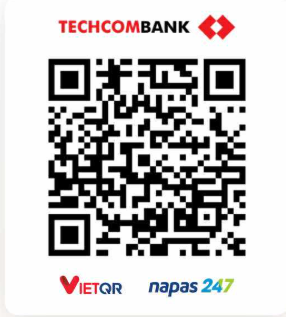
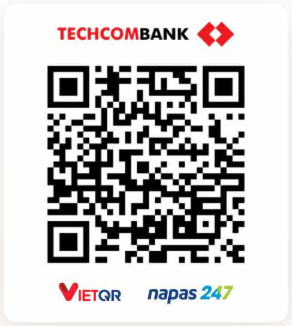
update version 2

diff --git a/index.html b/index.html
@@ -10,19 +10,18 @@
     <meta name="keywords" content="Wedding, Wedding website, Website đám cưới, Tạo website đám cưới miễn phí">
     <meta name="format-detection" content="telephone=no">
     <meta name="application-name" content="iWedding">
-    <meta name="author" content="Biihappy.com">
+    <meta name="author" content="DuongTV">
     <meta property="og:site_name" content="Tạ Dương &amp; Vũ Huế">
     <meta property="og:type" content="website">
     <meta property="og:title" content="Tạ Dương &amp; Vũ Huế Wedding site!">
-    <meta property="og:url" content="https://thanh-hue.iwedding.info">
     <meta property="og:description"
           content="Tạ Dương &amp; Vũ Huế - Our wedding date: 2025-11-02 | Đối với thế giới, bạn có thể là một người, nhưng với một người, bạn là cả thế giới">
     <meta property="og:image"
-          content="https://cdn.biihappy.com/ziiweb/website/68d6c355b582da57f105e202/94e39d0e847b6906e034a93b631876fc.jpeg">
+          content="/images/MQ1A2190%20copy.jpg">
     <meta property="og:image:url"
-          content="https://cdn.biihappy.com/ziiweb/website/68d6c355b582da57f105e202/94e39d0e847b6906e034a93b631876fc.jpeg">
+          content="/images/MQ1A2190%20copy.jpg">
     <meta property="og:image:secure_url"
-          content="https://cdn.biihappy.com/ziiweb/website/68d6c355b582da57f105e202/94e39d0e847b6906e034a93b631876fc.jpeg">
+          content="/images/MQ1A2190%20copy.jpg">
     <link rel="shortcut icon" type="image/x-icon" href="https://iwedding.info/favicon.ico">
     <link href="https://thanh-hue.iwedding.info/templates/template15/css/libs.css?v=202506122" rel="stylesheet">
     <link href="https://thanh-hue.iwedding.info/common/calendar.css?v=202506122" rel="stylesheet">
@@ -300,7 +299,7 @@
 
     <section class="event-section section-padding p-t-0 section-bg-color" id="events">
         <div class="top-area"
-             style="background: url('images/MQ1A3235 copy.jpg') center center/cover no-repeat local;">
+             style="background: url('images/MQ1A3235 copy (2).jpg') center center/cover no-repeat local;">
             <h2>Sự Kiện Cưới</h2>
             <p class="">...tình yêu không phải là nhìn chằm chằm vào nhau, mà là nhìn chằm chằm về cùng một hướng...</p>
         </div>
@@ -317,20 +316,18 @@
                             <p><strong>12:00 02/11/2025</strong></p>
                             <p>
                                 <span> - </span>
-                                Xóm 1, xã Nam Hải, xã Nam Tiền Hải, thành phố Hưng Yên
+                                Xóm 1, thôn Nội Lang Bắc, xã Nam Tiền Hải, tỉnh Hưng Yên
                             </p>
 
                             <div class="calendar-button">
                                 <div class="atcb" style="display:none;">
                                     {
                                     "name":"LỄ CƯỚI NHÀ GÁI (Đám cưới Tạ Dương và Vũ Huế)",
-                                    "description":"Cảm ơn bạn đã dành thời gian tham dự đám cưới của chúng tôi!. Thông
-                                    tin chi tiết xem tại website:<br>[url]https://thanh-hue.iwedding.info[/url]",
-                                    "startDate":"2025-10-11",
-                                    "endDate":"2025-10-11",
-                                    "startTime":"16:00",
-                                    "endTime":"16:00",
-                                    "location":"Xóm 1, xã Nam Hải, xã Nam Tiền Hải, thành phố Hưng Yên",
+                                    "startDate":"2025-11-02",
+                                    "endDate":"2025-11-02",
+                                    "startTime":"09:00",
+                                    "endTime":"14:00",
+                                    "location":"Xóm 7, thôn Tam Bảo, xã Nam Tiền Hải, tỉnh Hưng Yên",
                                     "options":["Apple","Google","iCal","Microsoft365","MicrosoftTeams","Outlook.com","Yahoo"],
                                     "timeZone":"Asia/Ho_Chi_Minh",
                                     "iCalFileName":"Reminder-Event",
@@ -340,7 +337,7 @@
                                     }
                                 </div>
                             </div>
-                            <a class="see-location-btn" href="https://maps.app.goo.gl/HEKNJEw8vP1HuUks9"
+                            <a class="see-location-btn" href="https://maps.app.goo.gl/MCtoBkteeZYvEWCn7"
                                target="_blank">Xem bản đồ</a>
                         </div>
                         <div class="grid section-bg-img">
@@ -352,20 +349,18 @@
                             <p><strong>13:00 02/11/2025</strong></p>
                             <p>
                                 <span> - </span>
-                                Xóm 7, xã Nam Tiền Hải, Thành phố Hưng Yên
+                                Xóm 7, thôn Tam Bảo, xã Nam Tiền Hải, Tỉnh Hưng Yên
                             </p>
 
                             <div class="calendar-button">
                                 <div class="atcb" style="display:none;">
                                     {
                                     "name":"LỄ CƯỚI NHÀ TRAI (Đám cưới Tạ Dương và Vũ Huế)",
-                                    "description":"Cảm ơn bạn đã dành thời gian tham dự đám cưới của chúng tôi!. Thông
-                                    tin chi tiết xem tại website:<br>[url]https://thanh-hue.iwedding.info[/url]",
                                     "startDate":"2025-11-02",
                                     "endDate":"2025-11-02",
                                     "startTime":"09:00",
                                     "endTime":"14:00",
-                                    "location":" Xóm 7, xã Nam Tiền Hải, Thành phố Hưng Yên",
+                                    "location":"Xóm 7, thôn Tam Bảo, xã Nam Tiền Hải, tỉnh Hưng Yên",
                                     "options":["Apple","Google","iCal","Microsoft365","MicrosoftTeams","Outlook.com","Yahoo"],
                                     "timeZone":"Asia/Ho_Chi_Minh",
                                     "iCalFileName":"Reminder-Event",
@@ -375,7 +370,7 @@
                                     }
                                 </div>
                             </div>
-                            <a class="see-location-btn" href="https://maps.app.goo.gl/YSmo1rGjZCpVFPoB7"
+                            <a class="see-location-btn" href="https://maps.app.goo.gl/Fiie9XWgPw5mHKGu5"
                                target="_blank">Xem bản đồ</a>
                         </div>
                     </div>
@@ -491,6 +486,20 @@
                             });
                         </script>
 
+                        <div class="grid grid-item btn-see-more-gallery" data-index="7">
+                            <a href="javascript:void(0)">
+                                <img src="/images/MQ1A3191%20copy.jpg"
+                                     alt class="img img-responsive">
+                            </a>
+                        </div>
+                        <script type="text/javascript">
+                            photoGalleries.push({
+                                src: "/images/MQ1A3191%20copy.jpg",
+                                thumb: "/images/MQ1A3191%20copy.jpg",
+                                subHtml: `<div class="lg-sub-html"><h4></h4></div>`
+                            });
+                        </script>
+
                         <div class="grid grid-item btn-see-more-gallery" data-index="6">
                             <a href="javascript:void(0)">
                                 <img src="/images/MQ1A3444%20copy.jpg"
@@ -529,6 +538,32 @@
                             photoGalleries.push({
                                 src: "/images/MQ1A2677%20copy.jpg",
                                 thumb: "/images/MQ1A2677%20copy.jpg",
+                                subHtml: `<div class="lg-sub-html"><h4></h4></div>`
+                            });
+                        </script>
+                        <div class="grid grid-item btn-see-more-gallery" data-index="8">
+                            <a href="javascript:void(0)">
+                                <img src="/images/MQ1A3363%20copy%201.jpg"
+                                     alt class="img img-responsive">
+                            </a>
+                        </div>
+                        <script type="text/javascript">
+                            photoGalleries.push({
+                                src: "/images/MQ1A3363%20copy%201.jpg",
+                                thumb: "/images/MQ1A3363%20copy%201.jpg",
+                                subHtml: `<div class="lg-sub-html"><h4></h4></div>`
+                            });
+                        </script>
+                        <div class="grid grid-item btn-see-more-gallery" data-index="8">
+                            <a href="javascript:void(0)">
+                                <img src="/images/MQ1A3326%20copy.jpg"
+                                     alt class="img img-responsive">
+                            </a>
+                        </div>
+                        <script type="text/javascript">
+                            photoGalleries.push({
+                                src: "/images/MQ1A3326%20copy.jpg",
+                                thumb: "/images/MQ1A3326%20copy.jpg",
                                 subHtml: `<div class="lg-sub-html"><h4></h4></div>`
                             });
                         </script>
@@ -577,7 +612,7 @@
                     <div class="contact-form">
                         <form id="wish-form" class="form validate-rsvp-form row" method="post">
                             <div class="col col-sm-6">
-                                <input type="text" name="name" class="form-control" placeholder="Nhập họ tên*">
+                                <input id="nickName" type="text" name="name" class="form-control" placeholder="Nhập họ tên*">
                             </div>
                             <div class="col col-sm-6">
                                 <input type="email" name="email" class="form-control" placeholder="Nhập email">
@@ -623,13 +658,13 @@
                                 </div>
                             </div>
                             <div class="col col-sm-12 submit-btn">
-                                <button type="submit" class="theme-btn">Gửi lời chúc</button>
+                                <button type="submit" class="theme-btn" onclick="sendMessage()">Gửi lời chúc</button>
                                 <div id="loader">
                                     <i class="ti-reload"></i>
                                 </div>
                             </div>
                             <div class="col col-md-12 success-error-message">
-                                <div id="success">Thank you</div>
+                                <div id="success">Lời chúc của bạn đã được gửi tới cô dâu và chú rể 👩🍳💖</div>
                             </div>
                         </form>
                     </div>
@@ -638,7 +673,8 @@
                     <div class="wish-box">
                         <div class="wish-box-item">
                             <strong>Minh Anh</strong>
-                            <p>Gửi anh Dương – người luôn hết mình vì công việc và đam mê bóng đá! Chúc anh và chị Huế mãi hạnh phúc, cùng nhau
+                            <p>Gửi anh Dương – người luôn hết mình vì công việc và đam mê bóng đá! Chúc anh và chị Huế
+                                mãi hạnh phúc, cùng nhau
                                 xây dựng tổ ấm tràn ngập tiếng cười và những bữa cơm ngon từ tay chị 💕</p>
                             <script>
                                 dataWishes.push({
@@ -650,7 +686,8 @@
 
                         <div class="wish-box-item bg">
                             <strong>Hải Nam</strong>
-                            <p>Anh Dương luôn là hình mẫu của sự tận tâm và trách nhiệm! Chúc anh và chị Huế trăm năm hạnh phúc, chị mãi xinh đẹp
+                            <p>Anh Dương luôn là hình mẫu của sự tận tâm và trách nhiệm! Chúc anh và chị Huế trăm năm
+                                hạnh phúc, chị mãi xinh đẹp
                                 và nấu ăn ngày càng đỉnh hơn 🍀</p>
                             <script>
                                 dataWishes.push({
@@ -662,7 +699,8 @@
 
                         <div class="wish-box-item">
                             <strong>Thanh Hằng</strong>
-                            <p>Chúc anh Dương và chị Huế mãi là cặp đôi hoàn hảo — anh đam mê công việc và bóng đá, chị dịu dàng đảm đang, bữa cơm
+                            <p>Chúc anh Dương và chị Huế mãi là cặp đôi hoàn hảo — anh đam mê công việc và bóng đá, chị
+                                dịu dàng đảm đang, bữa cơm
                                 nào cũng khiến ai cũng muốn về nhà sớm 💖</p>
                             <script>
                                 dataWishes.push({
@@ -674,7 +712,8 @@
 
                         <div class="wish-box-item bg">
                             <strong>Tuấn Kiệt</strong>
-                            <p>Chúc mừng anh Dương – người đàn ông hết lòng với công việc và sân cỏ. Mong anh và chị Huế cùng nhau tận hưởng từng
+                            <p>Chúc mừng anh Dương – người đàn ông hết lòng với công việc và sân cỏ. Mong anh và chị Huế
+                                cùng nhau tận hưởng từng
                                 khoảnh khắc hạnh phúc giản đơn 💫</p>
                             <script>
                                 dataWishes.push({
@@ -686,7 +725,8 @@
 
                         <div class="wish-box-item">
                             <strong>Ngọc Linh</strong>
-                            <p>Gửi chị Huế xinh đẹp và anh Dương tâm huyết! Hai anh chị chính là minh chứng cho sự hòa hợp giữa đam mê và dịu dàng.
+                            <p>Gửi chị Huế xinh đẹp và anh Dương tâm huyết! Hai anh chị chính là minh chứng cho sự hòa
+                                hợp giữa đam mê và dịu dàng.
                                 Chúc gia đình nhỏ luôn ấm áp nhé 🌸</p>
                             <script>
                                 dataWishes.push({
@@ -698,7 +738,8 @@
 
                         <div class="wish-box-item bg">
                             <strong>Quang Huy</strong>
-                            <p>Anh Dương làm việc như chơi bóng — luôn tập trung, nhiệt huyết và không ngại va chạm. Chị Huế là “huấn luyện viên”
+                            <p>Anh Dương làm việc như chơi bóng — luôn tập trung, nhiệt huyết và không ngại va chạm. Chị
+                                Huế là “huấn luyện viên”
                                 tuyệt vời nhất với những món ăn khiến ai cũng ghiền 😋</p>
                             <script>
                                 dataWishes.push({
@@ -710,7 +751,8 @@
 
                         <div class="wish-box-item">
                             <strong>Mai Phương</strong>
-                            <p>Chúc anh Dương và chị Huế mãi giữ được năng lượng tích cực, anh vẫn đá bóng hết mình, chị vẫn nấu ăn ngon như mọi
+                            <p>Chúc anh Dương và chị Huế mãi giữ được năng lượng tích cực, anh vẫn đá bóng hết mình, chị
+                                vẫn nấu ăn ngon như mọi
                                 khi! Cặp đôi vàng của năm đây rồi 💐</p>
                             <script>
                                 dataWishes.push({
@@ -722,7 +764,8 @@
 
                         <div class="wish-box-item bg">
                             <strong>Đức Anh</strong>
-                            <p>Gửi anh Dương – đồng nghiệp luôn tận tụy và cầu toàn. Chị Huế thật may mắn khi có anh, còn anh thì đúng là “vô địch
+                            <p>Gửi anh Dương – đồng nghiệp luôn tận tụy và cầu toàn. Chị Huế thật may mắn khi có anh,
+                                còn anh thì đúng là “vô địch
                                 ” khi có chị đảm đang bên cạnh 🥰</p>
                             <script>
                                 dataWishes.push({
@@ -734,7 +777,8 @@
 
                         <div class="wish-box-item">
                             <strong>Phương Thảo</strong>
-                            <p>Chị Huế xinh đẹp, nấu ăn đỉnh; anh Dương năng động, hết mình trong mọi việc – đúng chuẩn couple “chuẩn gu”! Chúc hai
+                            <p>Chị Huế xinh đẹp, nấu ăn đỉnh; anh Dương năng động, hết mình trong mọi việc – đúng chuẩn
+                                couple “chuẩn gu”! Chúc hai
                                 anh chị luôn vui vẻ và yêu thương mãi mãi 💞</p>
                             <script>
                                 dataWishes.push({
@@ -746,7 +790,8 @@
 
                         <div class="wish-box-item bg">
                             <strong>Văn Lâm</strong>
-                            <p>Chúc mừng anh Dương và chị Huế! Anh cứ tiếp tục tỏa sáng trong công việc và trên sân bóng, còn chị cứ xinh đẹp và
+                            <p>Chúc mừng anh Dương và chị Huế! Anh cứ tiếp tục tỏa sáng trong công việc và trên sân
+                                bóng, còn chị cứ xinh đẹp và
                                 nấu ăn ngon như hiện tại nhé 💫</p>
                             <script>
                                 dataWishes.push({
@@ -758,7 +803,8 @@
 
                         <div class="wish-box-item">
                             <strong>Hồng Nhung</strong>
-                            <p>Anh Dương là hình mẫu lý tưởng: chăm chỉ, trách nhiệm, yêu bóng đá và yêu gia đình. Còn chị Huế thì là “đầu bếp
+                            <p>Anh Dương là hình mẫu lý tưởng: chăm chỉ, trách nhiệm, yêu bóng đá và yêu gia đình. Còn
+                                chị Huế thì là “đầu bếp
                                 thiên thần” của mọi bữa cơm nhà 💕</p>
                             <script>
                                 dataWishes.push({
@@ -770,7 +816,8 @@
 
                         <div class="wish-box-item bg">
                             <strong>Trung Hiếu</strong>
-                            <p>Gửi anh Dương – người luôn cháy hết mình trong công việc và sân cỏ. Mong anh và chị Huế luôn bên nhau qua mọi mùa
+                            <p>Gửi anh Dương – người luôn cháy hết mình trong công việc và sân cỏ. Mong anh và chị Huế
+                                luôn bên nhau qua mọi mùa
                                 giải của cuộc đời ⚽❤</p>
                             <script>
                                 dataWishes.push({
@@ -782,7 +829,8 @@
 
                         <div class="wish-box-item">
                             <strong>Lan Hương</strong>
-                            <p>Chúc hai anh chị luôn giữ được ngọn lửa yêu thương. Anh Dương vẫn phong độ trên sân bóng, còn chị Huế vẫn là “master
+                            <p>Chúc hai anh chị luôn giữ được ngọn lửa yêu thương. Anh Dương vẫn phong độ trên sân bóng,
+                                còn chị Huế vẫn là “master
                                 chef” của mọi món ăn ngon 😍</p>
                             <script>
                                 dataWishes.push({
@@ -794,7 +842,8 @@
 
                         <div class="wish-box-item bg">
                             <strong>Hoàng Việt</strong>
-                            <p>Chúc mừng anh Dương – người luôn truyền cảm hứng trong công việc và bóng đá. Chị Huế đúng là “nữ chính hoàn hảo”
+                            <p>Chúc mừng anh Dương – người luôn truyền cảm hứng trong công việc và bóng đá. Chị Huế đúng
+                                là “nữ chính hoàn hảo”
                                 khi vừa xinh, vừa khéo tay 💗</p>
                             <script>
                                 dataWishes.push({
@@ -806,7 +855,8 @@
 
                         <div class="wish-box-item">
                             <strong>Thuỳ Dung</strong>
-                            <p>Anh Dương nhiệt huyết – chị Huế duyên dáng, đúng chuẩn “cặp đôi đáng ngưỡng mộ”. Chúc anh chị mãi hạnh phúc bên
+                            <p>Anh Dương nhiệt huyết – chị Huế duyên dáng, đúng chuẩn “cặp đôi đáng ngưỡng mộ”. Chúc anh
+                                chị mãi hạnh phúc bên
                                 nhau và luôn là nguồn cảm hứng cho mọi người 💖</p>
                             <script>
                                 dataWishes.push({
@@ -844,7 +894,6 @@
                                         <p>Ngân hàng: <strong>Techcombank</strong></p>
                                         <p>Tên tài khoản: <strong>TẠ VĂN DƯƠNG</strong></p>
                                         <p>Số tài khoản: <strong>19033508339018</strong></p>
-
                                     </div>
                                     <div class="donate-card">
                                         <h3>Mừng cưới đến cô dâu</h3>
@@ -853,7 +902,6 @@
                                         <p>Ngân hàng: <strong>Techcombank</strong></p>
                                         <p>Tên tài khoản: <strong>VŨ THỊ HUẾ</strong></p>
                                         <p>Số tài khoản: <strong>19036537764010</strong></p>
-
                                     </div>
                                 </div>
                             </div>
@@ -892,20 +940,19 @@
                 <div class="donate-card">
                     <h3>Mừng cưới đến chú rể</h3>
                     <img class="qr-code-image"
-                         src="https://cdn.biihappy.com/ziiweb/website/68d6c355b582da57f105e202/db002ad3b411951b3364e29f6743e30c.jpeg">
-                    <p>Ngân hàng: <strong>Vietcombank</strong></p>
-                    <p>Tên tài khoản: <strong>DAO VAN THANH</strong></p>
-                    <p>Số tài khoản: <strong>0731000731548</strong></p>
+                         src="/images/QR1.png">
+                    <p>Ngân hàng: <strong>Techcombank</strong></p>
+                    <p>Tên tài khoản: <strong>TẠ VĂN DƯƠNG</strong></p>
+                    <p>Số tài khoản: <strong>19033508339018</strong></p>
 
                 </div>
                 <div class="donate-card">
                     <h3>Mừng cưới đến cô dâu</h3>
                     <img class="qr-code-image"
-                         src="https://cdn.biihappy.com/ziiweb/website/68d6c355b582da57f105e202/d89fcce9182a1ec3ce0db7d5da2adfb8.jpeg">
-                    <p>Ngân hàng: <strong>Vietcombank</strong></p>
-                    <p>Tên tài khoản: <strong>HOANG THỊ HUE</strong></p>
-                    <p>Số tài khoản: <strong>0351001170185</strong></p>
-
+                         src="/images/QR2.png">
+                    <p>Ngân hàng: <strong>Techcombank</strong></p>
+                    <p>Tên tài khoản: <strong>VŨ THỊ HUẾ</strong></p>
+                    <p>Số tài khoản: <strong>19036537764010</strong></p>
                 </div>
             </div>
         </div>
@@ -984,6 +1031,12 @@
 <script type="text/javascript">
     if (typeof toastMessageWishes === 'function') {
         toastMessageWishes(dataWishes, 'wishes');
+    }
+    function sendMessage(){
+        let name = document.getElementById('nickName').value;
+        let content = document.getElementById('content').value;
+        document.getElementById('success').style.display = 'block';
+        toastr.success(content, name);
     }
 </script>
 </body>

diff --git a/custom.css b/custom.css
@@ -1,3 +1,10 @@
 .donate-box .donate-card .qr-code-image {
     border: unset !important;
 }
+
+.validate-rsvp-form #success {
+    background-color: green;
+    margin-bottom: 5px;
+    border-radius: 20px;
+    padding: 11px 20px;
+}
